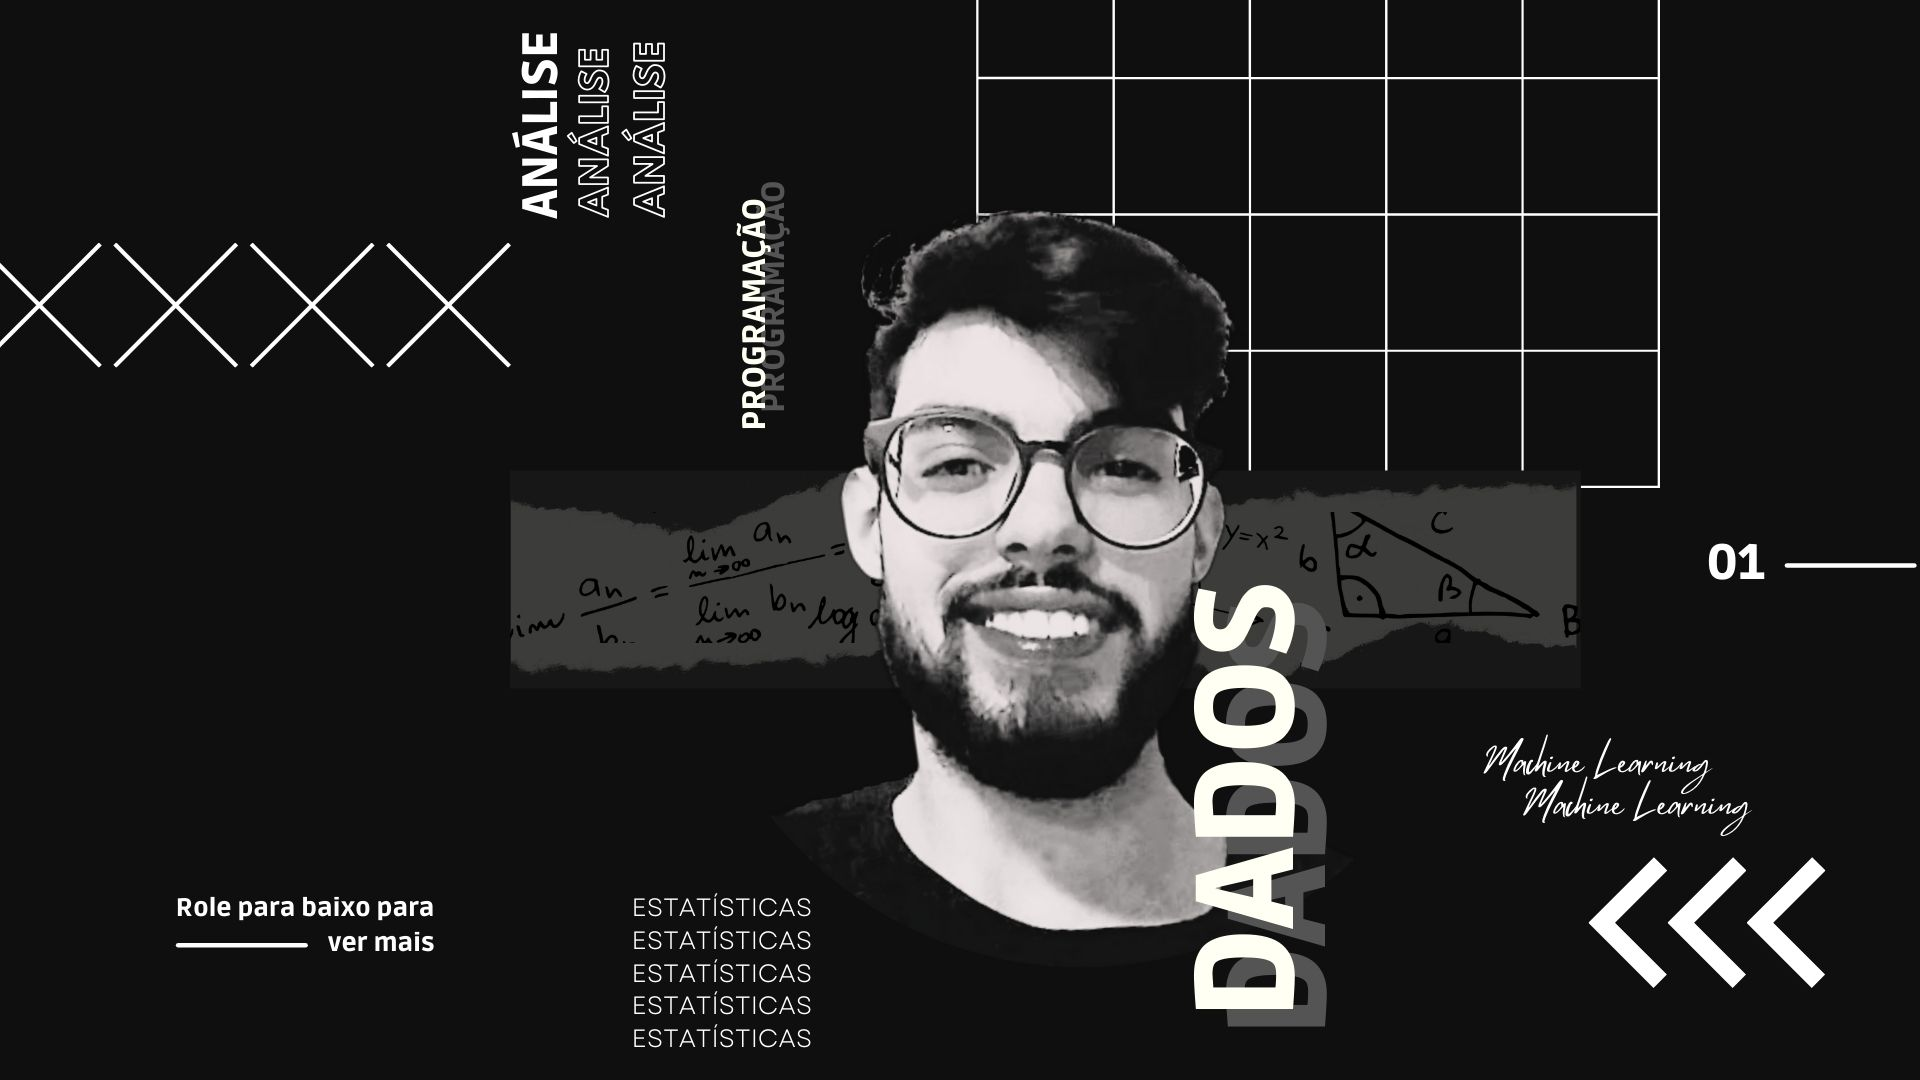
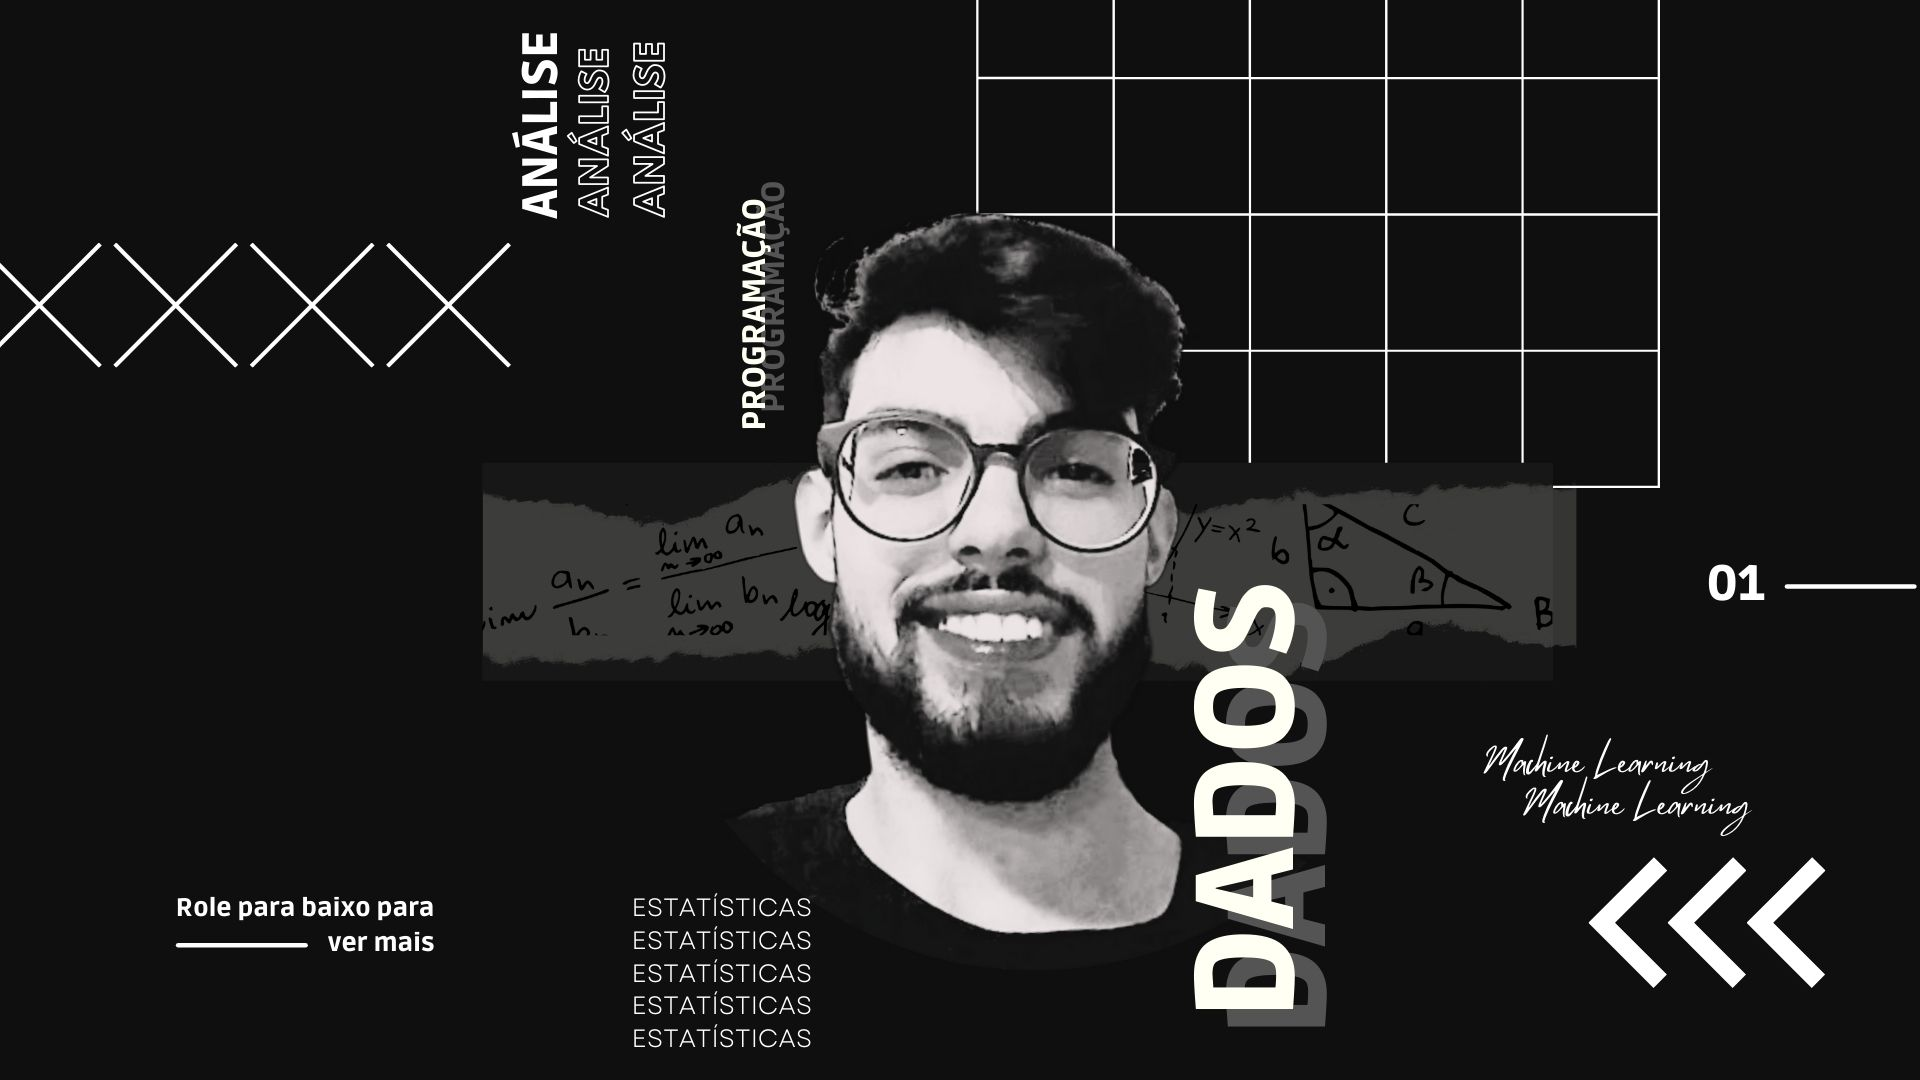
v 2.02

Changed region(s): [[0.25, 0.1833, 0.8125, 0.8861], [0.875, 0.4889, 1.0, 0.55]]

diff --git a/content/english/banner.md b/content/english/banner.md
@@ -1,5 +1,5 @@
 ---
-bg_image: images/backgrounds/eu1.jpg
+bg_image: images/backgrounds/imagem.jpg
 button:
   enable: true
   label: CONTATO
